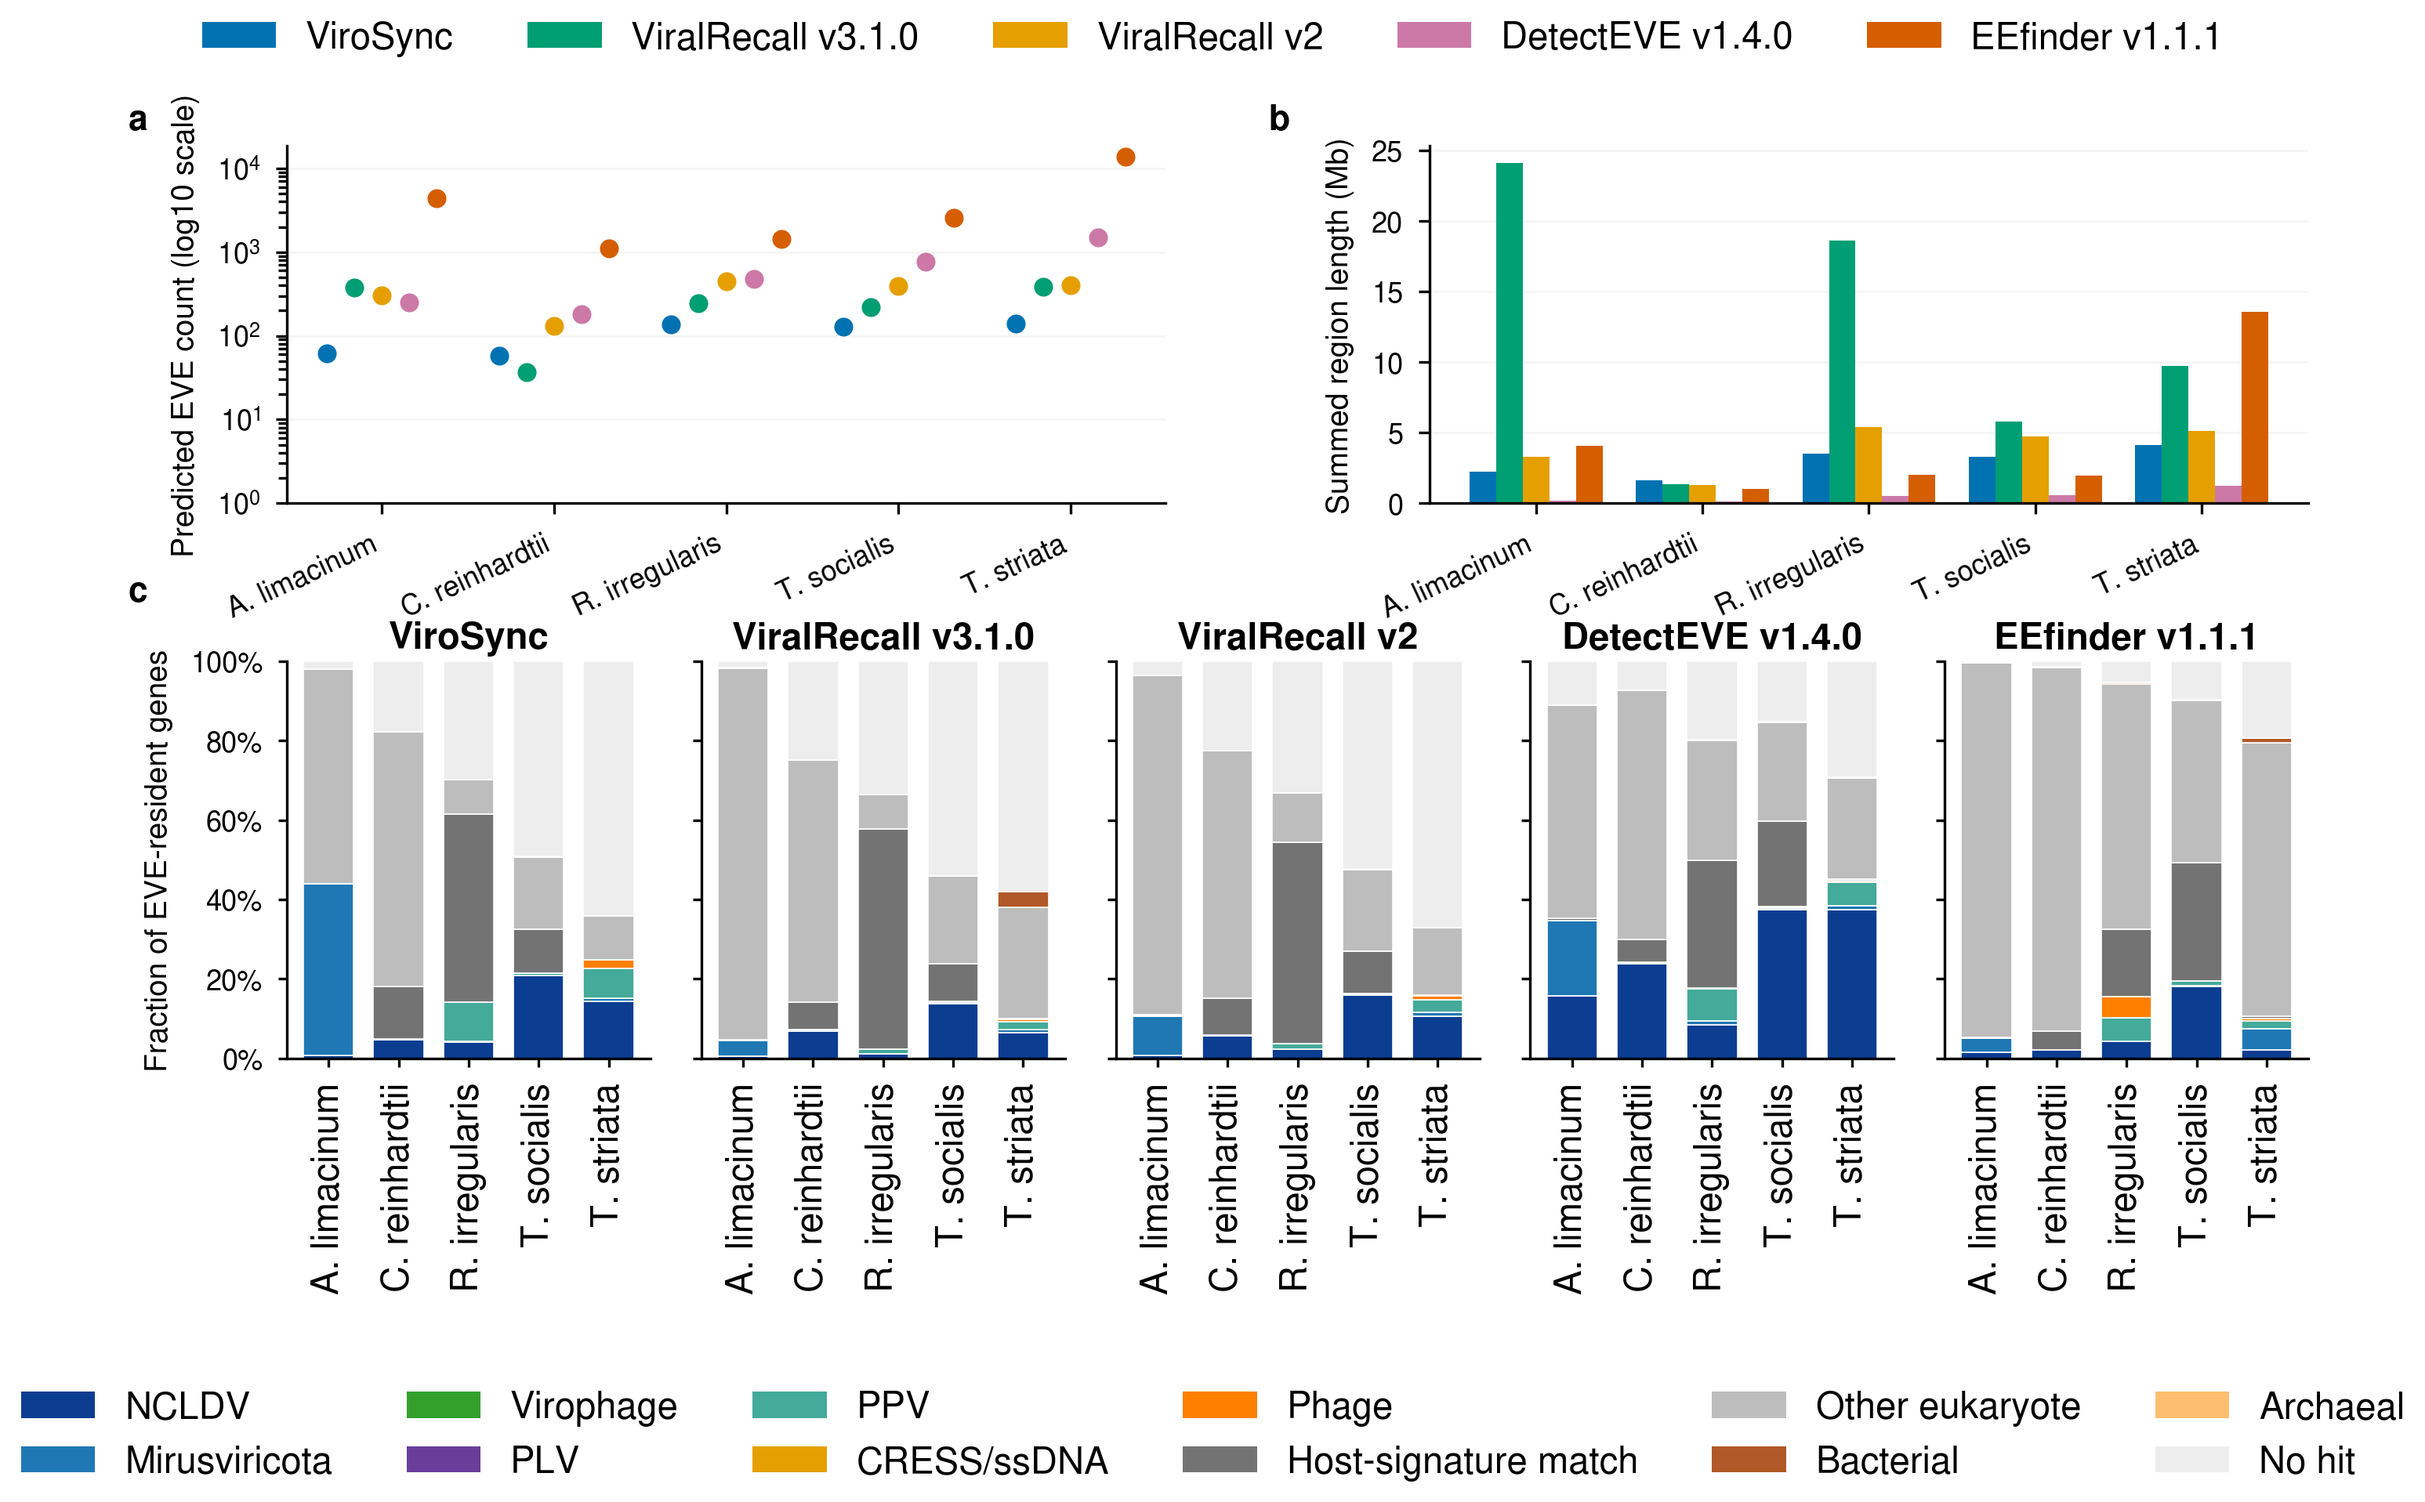
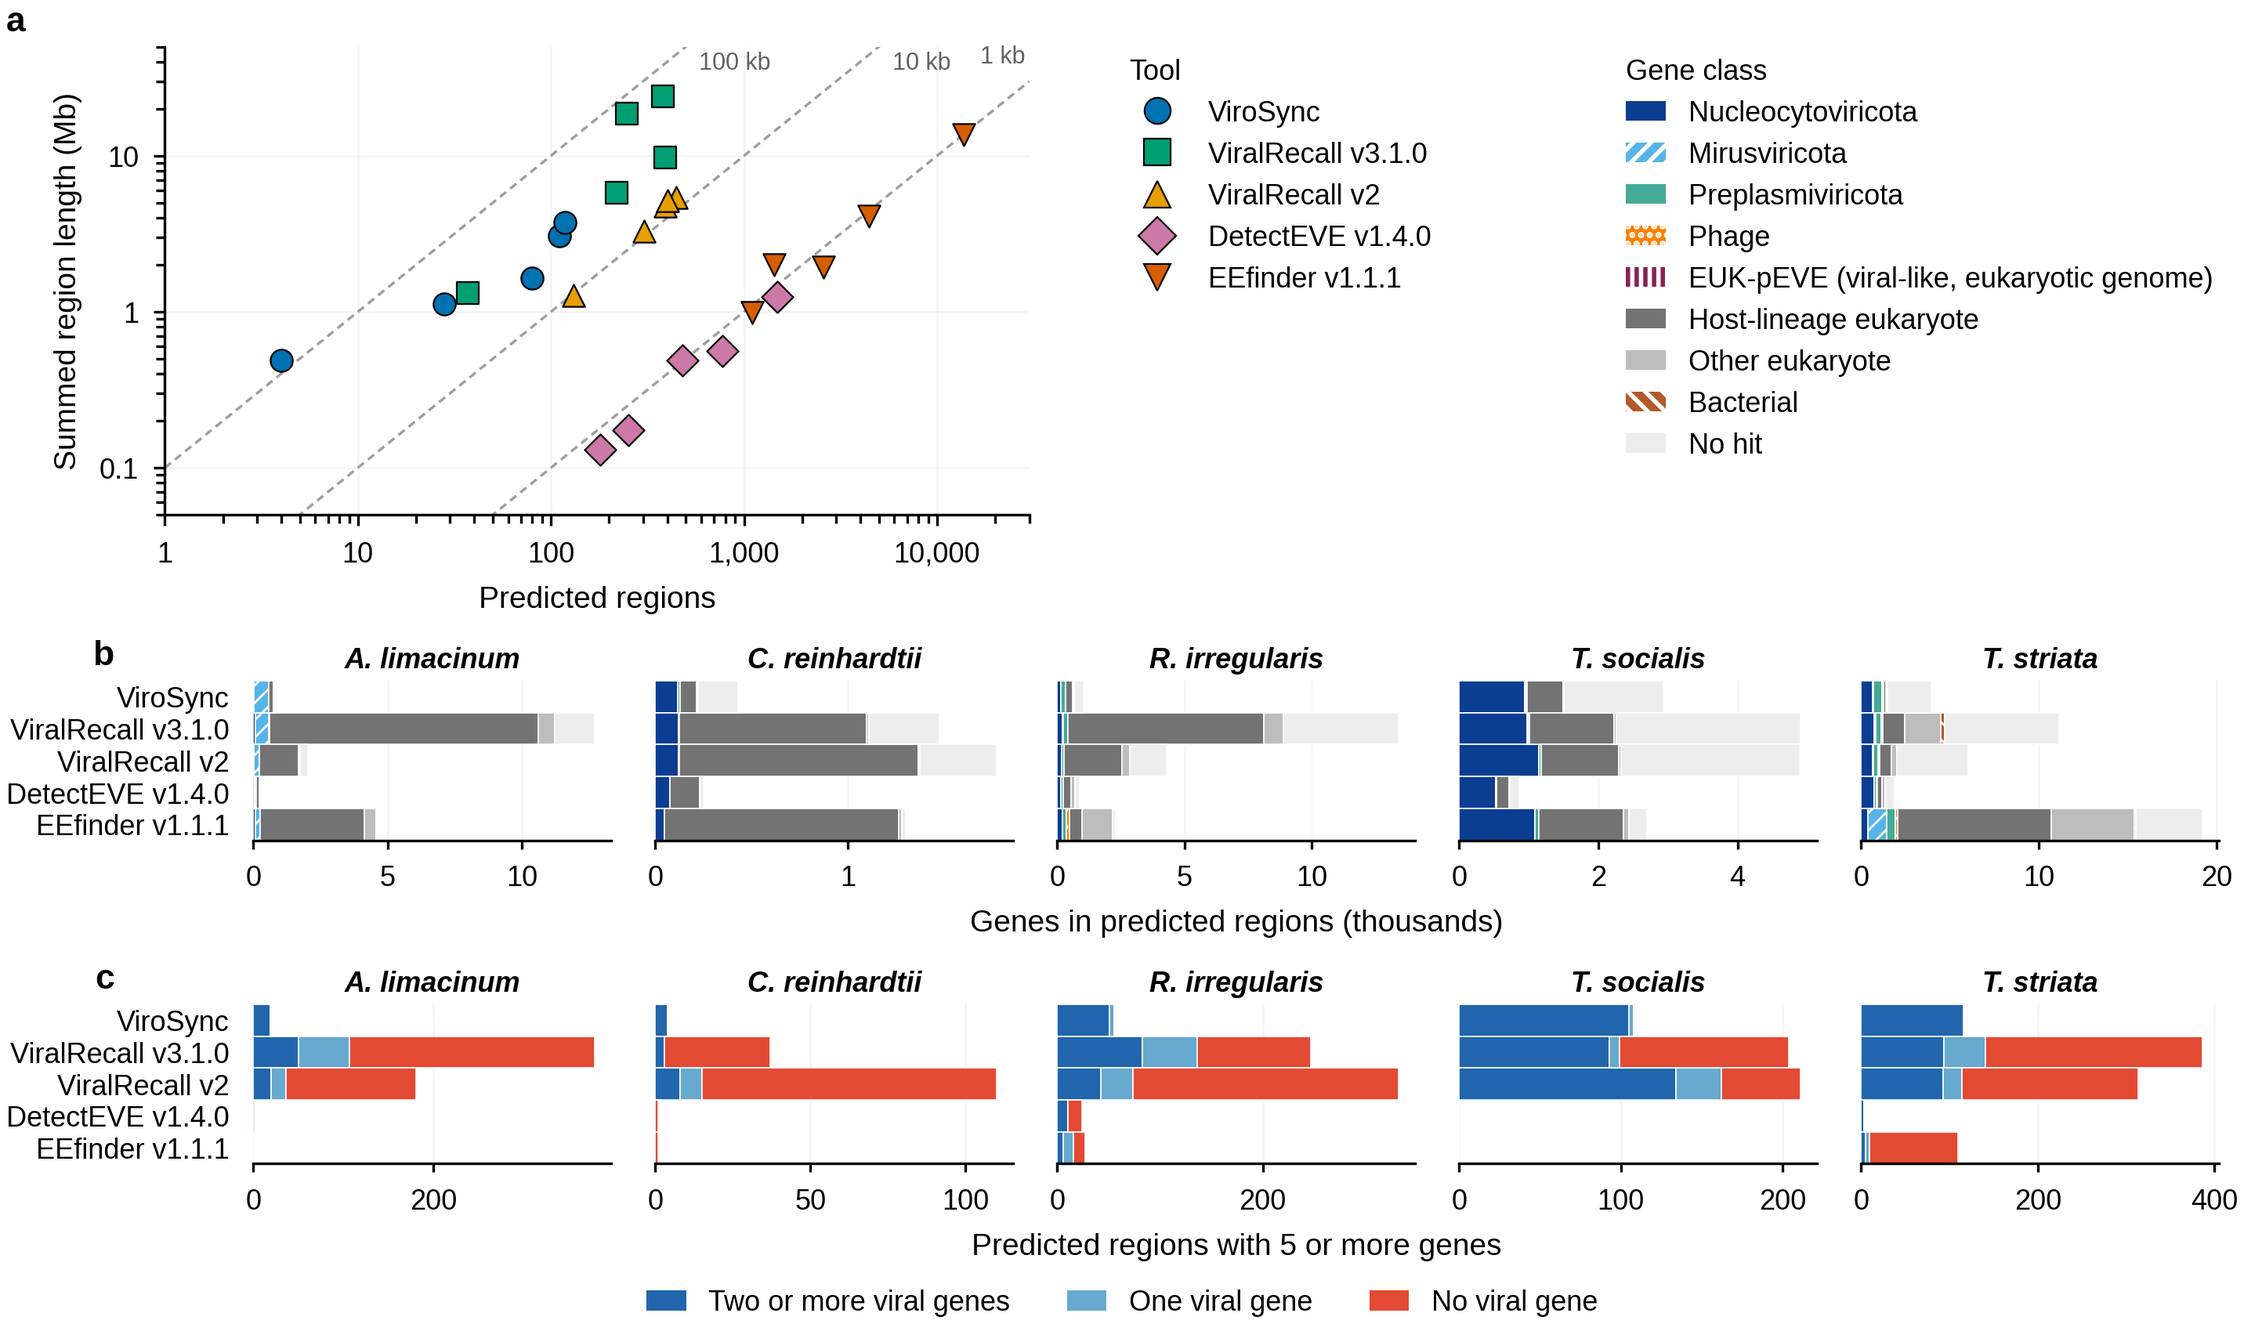
docs(performance): report the v1.2.0 release benchmark
The page described the September campaign (1.0.1, development
resources v1.1.0). Every reported ViroSync result now comes from the
release campaign of 23 October 2026: commit ec60050 with resource
bundle v1.2.0.

- best-call boundary recall 0.777 -> 0.774; SynEVEs-2 wall time
  100.5 -> 102.0 s; real genomes 600.0 -> 529.9 s; 524 -> 527
  accepted real-genome regions
- the three figures are copied from the regenerated benchmark
- the October paired regression keeps its own versions; the note on
  the old public default bundle is removed

diff --git a/docs/performance.md b/docs/performance.md
@@ -1,11 +1,8 @@
 # Performance
 
-The September 19 benchmark used ViroSync 1.0.1 with GenomeTools seed indexing,
-shared repeat comparisons and development resources v1.1.0. Its source SHA-256 was
[1 lines of base64/hex data omitted]
-Resource bundle v1.1.0 is an unreleased development bundle. Public builds and
-their shipped examples use v1.0.7; this local development configuration uses
-v1.1.0.
+The October 23 benchmark used ViroSync 1.0.2 at commit `ec60050` with resource
+bundle v1.2.0, the bundle that public builds install. Its source SHA-256 was
[1 lines of base64/hex data omitted]
 That campaign ran with one worker and 16 threads per input, at most two inputs
 at once, and no optional analyses. All figures below describe that campaign;
 the [paired repeat-annotation regression](#paired-repeat-annotation-regression)
@@ -14,7 +11,7 @@ is reported separately. Select a figure to open the full-size image.
 ## Synthetic boundary recovery
 
 The synthetic set contains 60 loci and 3,365.2 kb of inserted sequence. Mean
-best-call boundary recall was 0.777 for ViroSync, 0.596 for ViralRecall v3.1.0,
+best-call boundary recall was 0.774 for ViroSync, 0.596 for ViralRecall v3.1.0,
 0.307 for ViralRecall v2, 0.056 for DetectEVE v1.4.0, and 0.066 for EEfinder
 v1.1.1.
 
@@ -31,9 +28,9 @@ so the plot does not report specificity or accuracy.*
 
 ## Runtime and peak memory
 
-Mean wall time across 30 SynEVEs-2 inputs was 100.5 seconds for ViroSync and
+Mean wall time across 30 SynEVEs-2 inputs was 102.0 seconds for ViroSync and
 12.3 seconds for ViralRecall v3.1.0. Across five real-genome inputs, the means
-were 600.0 and 1,705.5 seconds. Campaign concurrency differed, so these values
+were 529.9 and 1,705.5 seconds. Campaign concurrency differed, so these values
 do not give a general speed ranking.
 
 [![Runtime and peak resident memory](assets/performance/benchmark_figS1_runtime_memory_with_vr30.png)](assets/performance/benchmark_figS1_runtime_memory_with_vr30.png)
@@ -41,14 +38,14 @@ do not give a general speed ranking.
 *Per-input wall time and peak resident memory for 30 SynEVEs-2 inputs and five
 real-genome inputs. All tools used 16 threads or cores on the same 64-core
 host, but campaign concurrency differed. All ViroSync timings come from the
-September 19 campaign. Wall time includes contention and database caching.
+October 23 campaign. Wall time includes contention and database caching.
 Peak RSS is shown in decimal GB for the largest single
 process, not the process tree. EEfinder is absent because its campaign used
 different load and concurrency.*
 
 ## Real-genome output
 
-ViroSync accepted 524 regions across the five real genomes. These inputs have
+ViroSync accepted 527 regions across the five real genomes. These inputs have
 no complete region-level truth set. The figure describes output burden and
 gene content, not detection accuracy.
 
@@ -65,8 +62,8 @@ See [Outputs](METHODS.md) for the result files and their interpretation.
 The paired run compared baseline commit `1ceea9d` with repeat-evidence commit
 `8a64514` on 155 frozen inputs. Both source snapshots reported ViroSync 1.0.1 at
 the time of testing. Each variant used the same input bytes, runtime,
-configuration and development resource bundle v1.1.0. This bundle is distinct
-from the public default, v1.0.7. The source content SHA-256 values were:
+configuration and development resource bundle v1.1.0. The source content SHA-256
+values were:
 
[2 lines of base64/hex data omitted]
